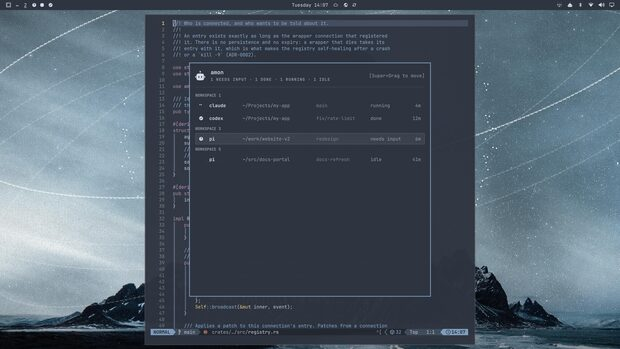
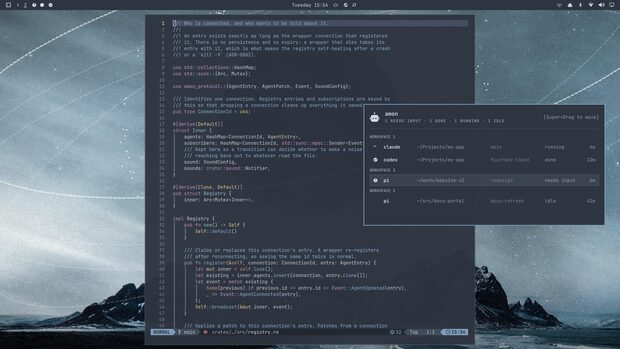
Recompose the floating shot, and plainer gallery labels
The panel now sits half-height on the right with every row still in
view, the editor carrying the left of the frame. The lightbox says
top bar and amon in a floating panel.

diff --git a/website/index.html b/website/index.html
@@ -1050,12 +1050,12 @@ Set up amon <span class="t-o">- space toggles, enter applies</span>
                alt="The agent panel on the tokyo night theme">
           <span class="shot-name">tokyo night</span>
         </button></li>
-        <li><button class="shot" type="button" data-full="shots/top-bar.jpg" data-theme="the top bar">
+        <li><button class="shot" type="button" data-full="shots/top-bar.jpg" data-theme="top bar">
           <img src="shots/top-bar-thumb.jpg" width="620" height="349" loading="lazy" decoding="async"
                alt="The workspace indicators in the top bar, zoomed, on the gruvbox theme">
           <span class="shot-name">top bar</span>
         </button></li>
-        <li><button class="shot" type="button" data-full="shots/floating.jpg" data-theme="the floating panel">
+        <li><button class="shot" type="button" data-full="shots/floating.jpg" data-theme="amon in a floating panel">
           <img src="shots/floating-thumb.jpg" width="620" height="349" loading="lazy" decoding="async"
                alt="The agent panel floating over an editor on the nord theme">
           <span class="shot-name">floating panel</span>
